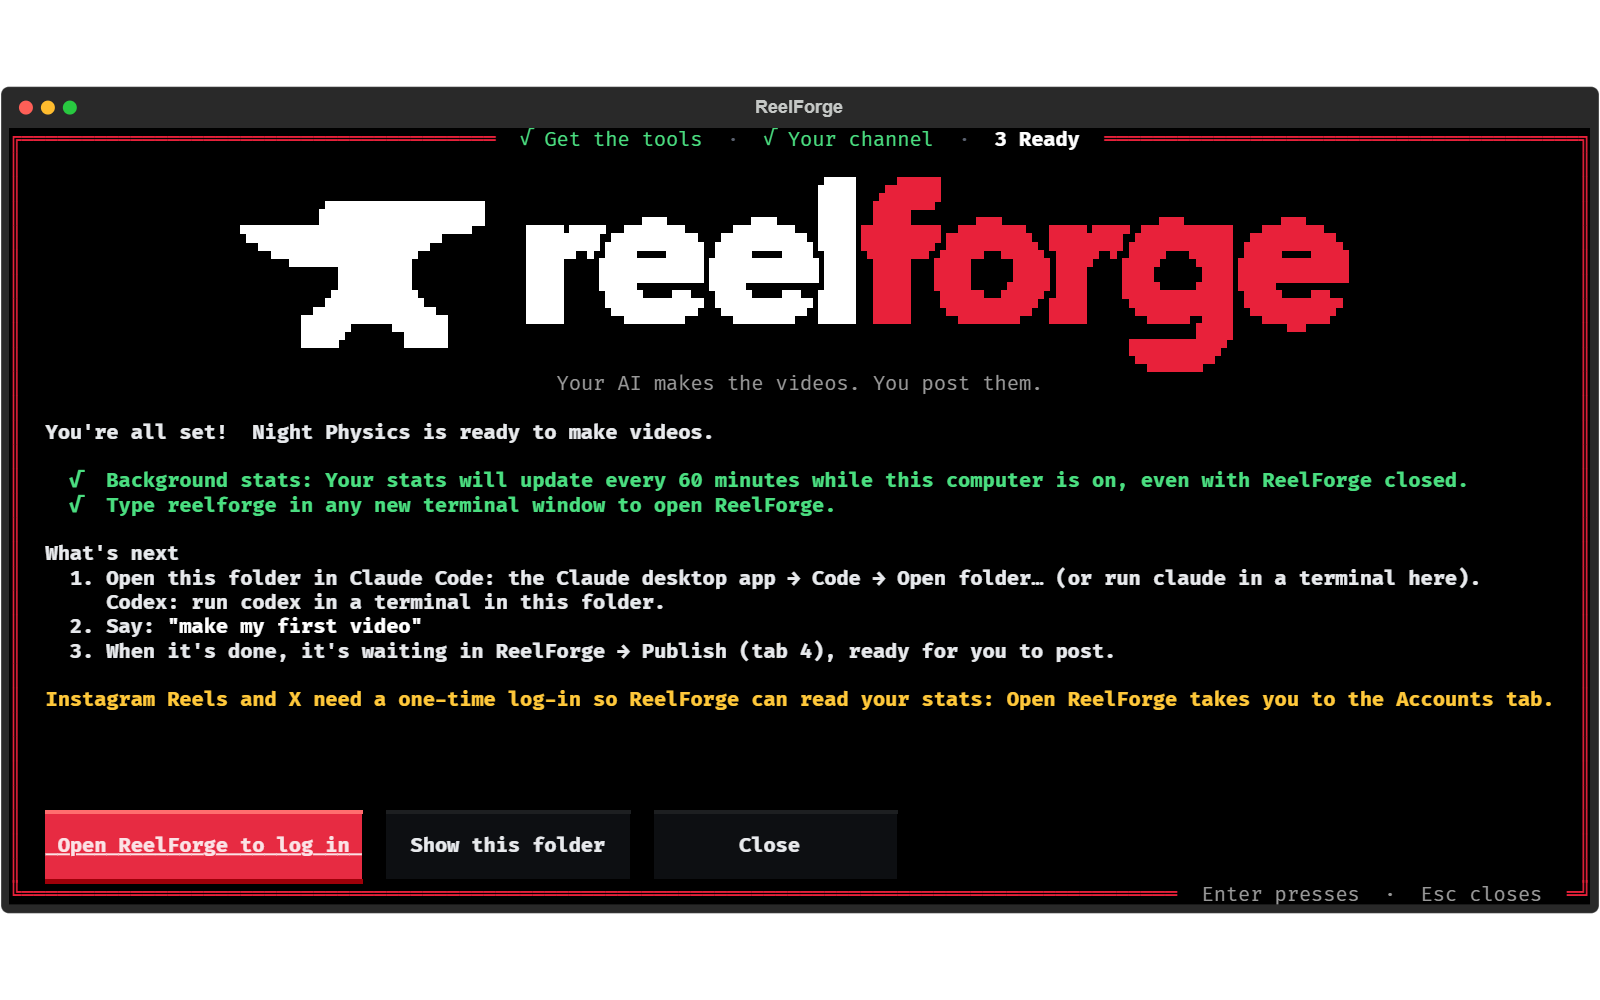
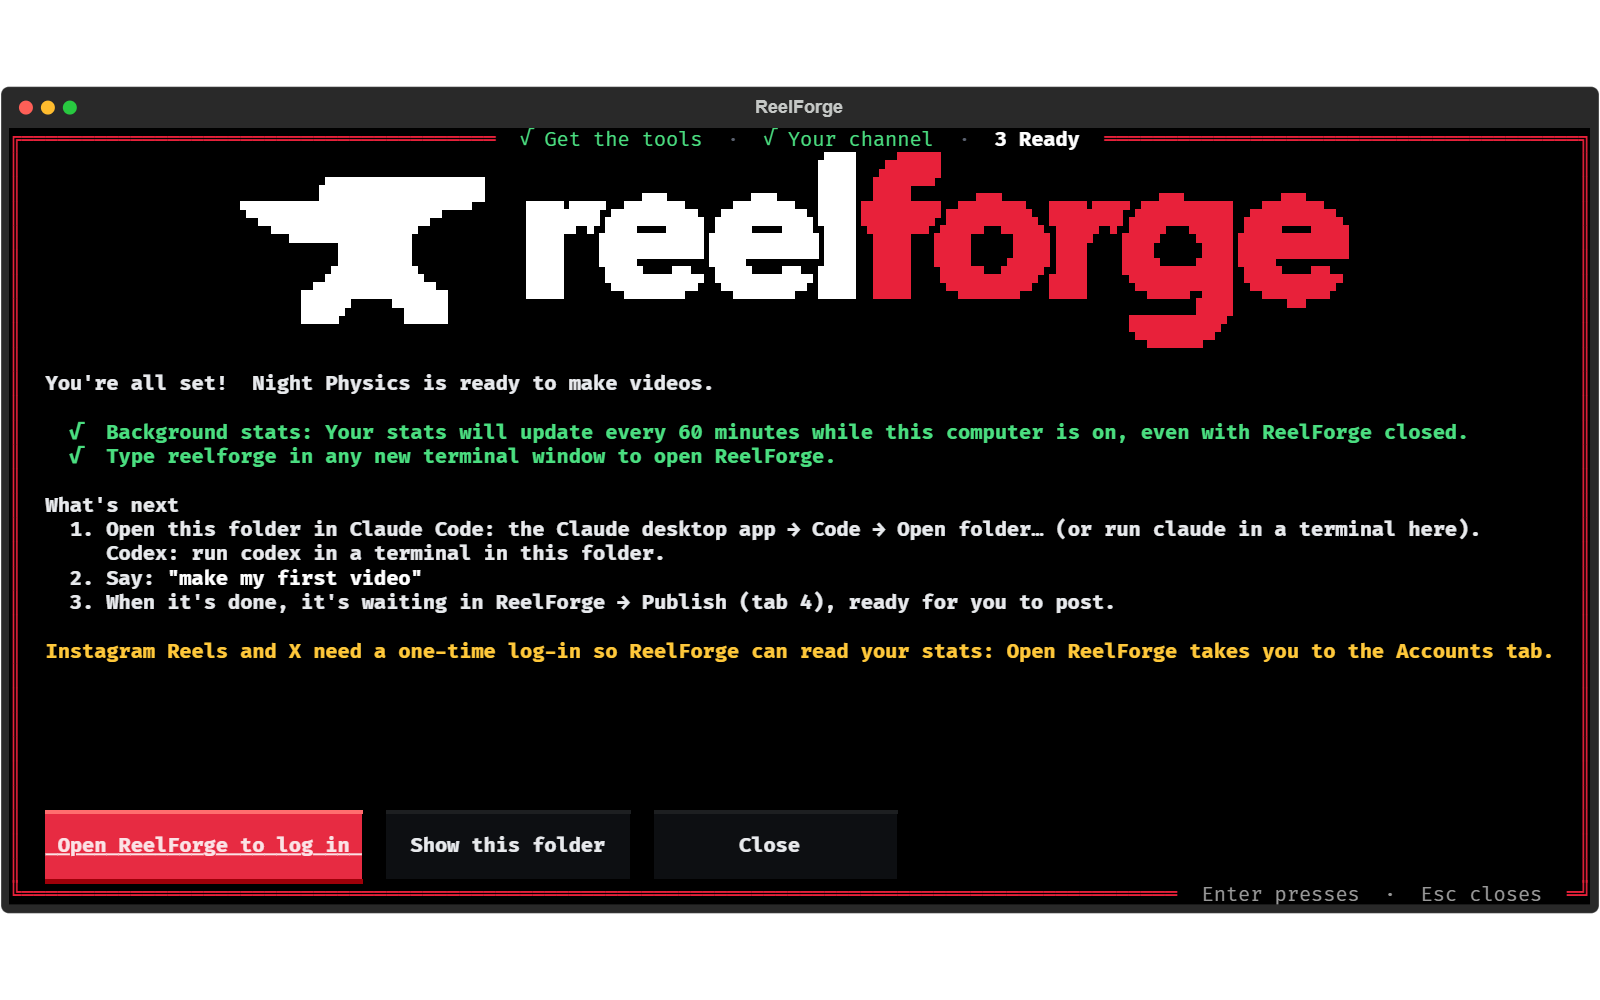
ReelForge 1.0.2
The release notes open with what's new in 1.0.2 (the one-line install, notifications that take you to what they're
about, the sharper anvil, test copies, the new README), and the download table puts the one-line install first.
The screenshots are retaken for this version.

Changed region(s): [[0.0312, 0.155, 0.9688, 0.713]]

diff --git a/studio/__init__.py b/studio/__init__.py
@@ -7,5 +7,5 @@
 
 KIT_NAME = "ReelForge"
 KIT_SLUG = "reelforge"
-KIT_VERSION = "1.0.1"
+KIT_VERSION = "1.0.2"
 BLENDER_VERSION = "4.5.5"   # the Blender LTS the pipeline is built and tested on (any 4.5.x works)

diff --git a/.github/release-notes.md b/.github/release-notes.md
@@ -1,14 +1,28 @@
-**Your AI makes the videos. You post them.** ReelForge turns Claude Code (or Codex) into a studio for a faceless
-short-form channel: a short interview sets it up for your channel, then your AI scripts, builds, renders and checks
-every video in Blender and puts it in ReelForge's Publish tab, where you post it by hand. Nothing is ever posted
-for you.
+## What's new in 1.0.2
+
+- **Install with one line, with no download warnings.** Paste the line below into PowerShell: it downloads ReelForge
+  straight from GitHub, checks it and starts setup.
+- **Notifications take you there.** Click one and ReelForge shows what it's about: the video on Videos, the finished
+  video on Publish, the platform on Accounts.
+- **A sharper anvil** in the top-left, however you open ReelForge.
+- **Test copies stay out of the way.** A ReelForge folder with a `TEST-COPY.txt` in it says TEST, and never touches
+  the `reelforge` command, the hourly stats job or the desktop shortcut.
+- **A new README** with the demo videos, fresh screenshots and the steps after onboarding. The setup screens drop the
+  line under the logo.
+
+Already have ReelForge? Open **Updates** (`reelforge 6`) and click **Update and restart**.
+
+---
+
+ReelForge lets Claude Code or Codex make faceless short videos for TikTok, YouTube Shorts, Instagram Reels and X,
+then shows you how each one does once you've posted it. Nothing is ever posted for you.
 
 ## Download
 
 | Your computer | Download | Then |
 |---|---|---|
-| **Windows 10 / 11** | `ReelForge-…-Windows-Setup.exe` | Run it (if Windows says "Windows protected your PC", click **More info**, then **Run anyway**: the installer isn't code-signed). It installs into your user folder, adds the `reelforge` command and a desktop icon, and starts setup. |
-| Windows, one line, no warnings | `install.ps1` | Open PowerShell, paste `irm https://github.com/dan2756/ReelForge/releases/latest/download/install.ps1 \| iex` and press Enter. It downloads ReelForge straight from GitHub into your user folder, checks it and starts setup, so neither the browser nor Windows warns about it. |
+| **Windows 10 / 11** | `install.ps1` | Open PowerShell, paste `irm https://github.com/dan2756/ReelForge/releases/latest/download/install.ps1 \| iex` and press Enter. It downloads ReelForge straight from GitHub into your user folder, checks it and starts setup, so neither the browser nor Windows warns about it. |
+| Windows, installer | `ReelForge-…-Windows-Setup.exe` | Run it (if Windows says "Windows protected your PC", click **More info**, then **Run anyway**: the installer isn't code-signed). It installs into your user folder, adds the `reelforge` command and a desktop icon, and starts setup. |
 | Windows, no installer | `ReelForge-…-Windows.zip` | Unzip it to a short path (e.g. `C:\Users\you\ReelForge`) and double-click `setup.bat`. |
 | macOS (experimental) | `ReelForge-…-macOS.zip` | Unzip it, right-click `Set up ReelForge.command`, choose **Open**. Needs Python 3.11+ and ffmpeg (`brew install python@3.13 ffmpeg`). |
 | Linux (experimental) | `ReelForge-…-Linux.tar.gz` | Extract it and run `./setup.sh`. Needs Python 3.11+ and ffmpeg. |
